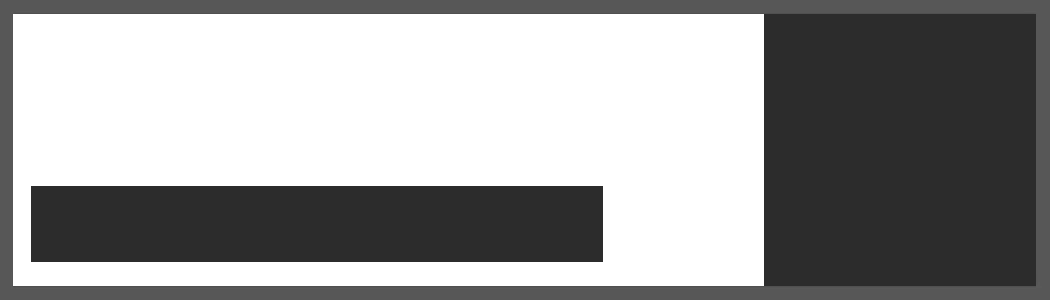
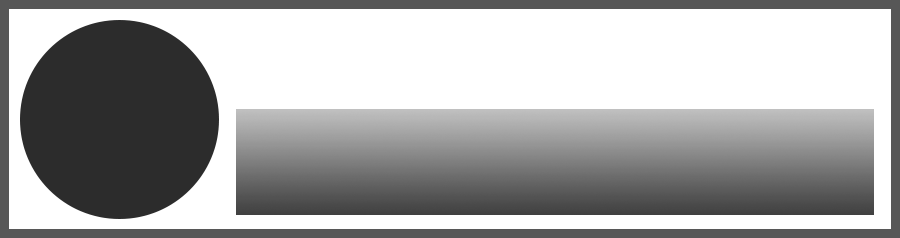
Fixed rank card funcionality(Vacefron API not availible. Changed to offline lib 'disrank')

diff --git a/cogs/leveling.py b/cogs/leveling.py
@@ -6,7 +6,7 @@ from typing import Final
 import discord
 from discord import app_commands
 from discord.ext import commands
-import vacefron
+from disrank.generator import Generator
 import math
 import sqlite3
 from dotenv import load_dotenv
@@ -287,8 +287,8 @@ class Leveling(commands.Cog):
                             if alpha:
                                 pix_data[x, y] = (r, g, b, alpha)
 
-                # Resize and crop image to 1050x300px
-                min_width, min_height = 1050, 300
+                # Resize and crop image to 900x238px
+                min_width, min_height = 900, 238
                 ratio = min_width / min_height
 
                 with Image.open(image.fp).convert("RGBA") as background_image:
@@ -396,22 +396,40 @@ class Leveling(commands.Cog):
         next_lvl_xp = ((int(level) + 1) / 0.1) ** 2
         next_lvl_xp = int(next_lvl_xp)
 
-        rank_card = vacefron.Rankcard(
-            username=user.display_name,
-            avatar_url=user.avatar.url,
-            current_xp=exp,
-            next_level_xp=next_lvl_xp,
-            previous_level_xp=0,
-            level=int(level),
-            rank=rank,
-            circle_avatar=False,
-            background=background,
-            xp_color=str(user.color),
-            text_shadow_color="000000",
-        )
+        # rank_card = vacefron.Rankcard(
+        #     username=user.display_name,
+        #     avatar_url=user.avatar.url,
+        #     current_xp=exp,
+        #     next_level_xp=next_lvl_xp,
+        #     previous_level_xp=0,
+        #     level=int(level),
+        #     rank=rank,
+        #     circle_avatar=False,
+        #     background=background,
+        #     xp_color=str(user.color),
+        #     text_shadow_color="000000",
+        # )
 
-        card = await vacefron.Client().rank_card(rank_card)
-        await interaction.response.send_message(card.url) # NOQA
+        # card = await vacefron.Client().rank_card(rank_card)
+        user_status = interaction.guild.get_member(user.id).status
+
+        args = {
+            'bg_image': background,  # Background image link
+            'profile_image': user.avatar.url,  # User profile picture link
+            'level': int(level),  # User current level
+            'current_xp': int(level)**2 * 100,  # Current level minimum xp
+            'user_xp': exp,  # User current xp
+            'next_xp': next_lvl_xp,  # xp required for next level
+            'user_position': rank,  # User position in leaderboard
+            'user_name': user.display_name,  # user name with descriminator
+            'user_status': user_status.__str__(),  # User status eg. online, offline, idle, streaming, dnd
+            'xp_color': user.color.__str__(),
+        }
+
+        image = Generator().generate_profile(**args)
+        file = discord.File(fp=image, filename='image.png')
+
+        await interaction.response.send_message(file=file) # card.url # NOQA
 
 
 async def setup(bot):

diff --git a/main.py b/main.py
@@ -17,6 +17,7 @@ intents.message_content = True  # NOQA
 intents.members = True  # NOQA
 intents.voice_states = True # NOQA
 intents.guilds = True # NOQA
+intents.presences = True # NOQA
 
 client = commands.Bot(command_prefix='!', intents=intents, application_id=APPLICATION_ID)
 

diff --git a/README.md b/README.md
@@ -1,2 +1,3 @@
 # Discord-bot
 Bot for discord server "The lair of Hacker32Bit"
+
